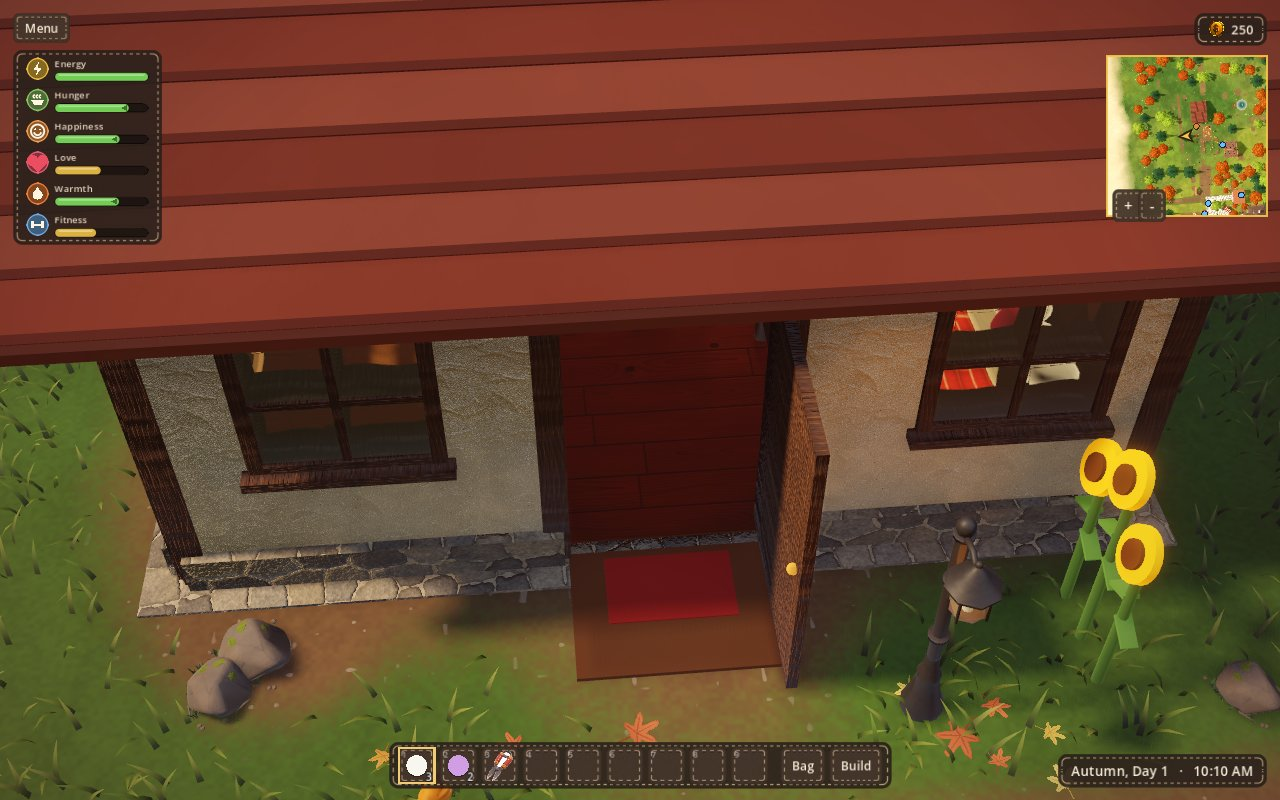
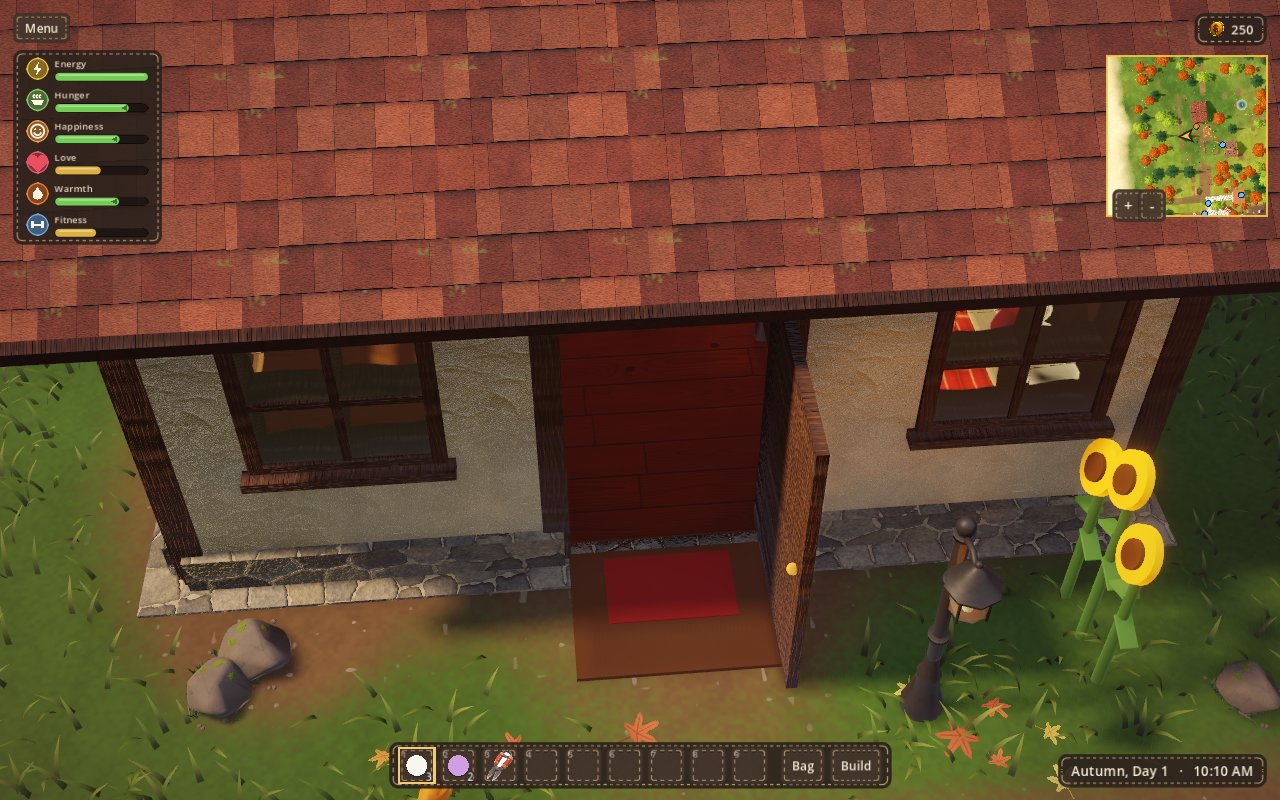
Cedar shingles on the house roof, with a dark oak ridge and fascia
Alex: "what about the roof". The slopes were flat-coloured felt strips. The exterior build
script now draws cedar shingles in the roof's red-brown (courses along the ridge, each shingle
its own width and shade, a shadow under every butt, a little moss), with a mirrored copy for
the other slope so both shade the right way. --only=exterior checks both and saves 62_roof.png.

diff --git a/art/world_assets/house_exterior/build.py b/art/world_assets/house_exterior/build.py
@@ -5,7 +5,7 @@ license), which scripts/house_skin.gd projects onto the house's boxes from three
 
     uv run --no-project --with numpy --with pillow python art/world_assets/house_exterior/build.py
 
-Writes tex/<kind>.png and <kind>_n.png (and timber_h, the oak with its grain across) and a review sheet (review/sheet.png), and copies the maps
+Writes tex/<kind>.png and <kind>_n.png (and timber_h, the oak with its grain across, and shingles_r, the shingles for the far slope) and a review sheet (review/sheet.png), and copies the maps
 to assets/textures/house/. Then import (see AGENTS.md).
 
 Every map tiles both ways: the noise is made in frequency space (so it wraps), and every stroke,
@@ -25,7 +25,7 @@ TEX = os.path.join(HERE, "tex")
 GAME = os.path.join(ROOT, "assets", "textures", "house")
 
 # metres one tile covers (scripts/house_skin.gd scales by these) and its size in pixels
-SIZES = {"plaster": (2.0, 1024), "timber": (1.0, 512), "stone": (2.0, 1024)}
+SIZES = {"plaster": (2.0, 1024), "timber": (1.0, 512), "stone": (2.0, 1024), "shingles": (1.0, 512)}
 
 
 def C(h):
@@ -207,6 +207,53 @@ def stone():
     return np.clip(rgb, 0, 1), h, 3.2
 
 
+def shingles():
+    """Cedar shingles stained the roof's red-brown: courses 0.25 m apart, each shingle its own
+    width and shade, thin under the course above and thick at its butt, which throws a shadow
+    line on the course below; gaps between them, grain down the slope, a little moss. Drawn with
+    the courses across the image (butts at the bottom of each); main() turns it for the roof."""
+    size, n = SIZES["shingles"]
+    rng = np.random.default_rng(91)
+    px = n / size
+    rows = 4
+    R = n // rows
+    rgb = np.zeros((n, n, 3))
+    h = np.zeros((n, n))
+    grain = fbm(rng, n, 50, 3, aspect=(1.0, 0.08)) # streaks down the slope (down the image)
+    blot = fbm(rng, n, 6, 2)
+    pal = [C("#6b3529"), C("#7a3d2c"), C("#5e2e24"), C("#834633"), C("#6a3a2e"), C("#734030")]
+    ys = np.arange(n)
+    for r in range(rows):
+        y0 = r * R
+        x = rng.uniform(0, 0.1) * px
+        while x < n + 0.1 * px:
+            w = rng.uniform(0.11, 0.3) * px
+            if x + w > n and x < n: # the course's last shingle ends where the first began
+                w = n - x
+            col = pal[rng.integers(len(pal))] * rng.uniform(0.88, 1.1)
+            butt = R - rng.uniform(0, 4) # a ragged lower edge
+            x0, x1 = int(x), int(x + w)
+            xs = np.arange(x0, x1) % n
+            for xi in xs:
+                t = (ys[y0:y0 + R] - y0) / butt
+                inside = t <= 1.0
+                rgb[y0:y0 + R, xi][inside] = col
+                h[y0:y0 + R, xi] = np.where(inside, 0.15 + 0.85 * np.clip(t, 0, 1), 0.0)
+            # the gap at its edge
+            rgb[y0:y0 + R, x0 % n] *= 0.45
+            h[y0:y0 + R, x0 % n] -= 0.3
+            x += w
+    # the shadow each butt throws on the course below
+    rowpos = (ys % R) / R
+    shade = 1.0 - 0.45 * np.exp(-rowpos / 0.06)
+    rgb = rgb * shade[:, None, None]
+    rgb = rgb * (1 + 0.12 * grain + 0.05 * blot)[..., None]
+    moss = np.clip(noise(rng, n, 25) * 0.6 + fbm(rng, n, 4, 2) - 1.4, 0, 1) * (rowpos[:, None] < 0.35)
+    rgb = rgb + (C("#6d7a3c") - rgb) * (moss * 0.55)[..., None]
+    h = h + 0.08 * grain
+    return np.clip(rgb, 0, 1), h, 3.0
+
+
 def save(name, rgb, nrm):
     for suffix, img in (("", rgb), ("_n", nrm)):
         path = os.path.join(TEX, name + suffix + ".png")
@@ -239,6 +286,12 @@ def main():
         save(name, *maps[name])
         if name == "timber": # the same oak turned a quarter, for the rails and lintels that lie flat
             save("timber_h", rgb.transpose(1, 0, 2), normal_from_height(h.T, strength))
+        if name == "shingles": # turned so the courses run along the ridge and the butts face down
+            # the slope (+x in each slope's space); shingles_r for the other slope, where down is -x
+            t, th = rgb.transpose(1, 0, 2), h.T
+            save("shingles", t, normal_from_height(th, strength))
+            save("shingles_r", t[:, ::-1], normal_from_height(th[:, ::-1], strength))
+            maps[name] = (t, normal_from_height(th, strength))
         print("wrote", name)
     sheet(maps)
 

diff --git a/AGENTS.md b/AGENTS.md
@@ -39,7 +39,7 @@ grep -E '^FAIL|SCRIPT ERROR|Parse Error' /tmp/ke_autotest.log   # expect nothing
 - To check only the barn (the model's parts, walking in and out, how it opens up) and the flock's bedtime (the sheep walk to their stalls at dusk and back to the pen at first light), add `--only=barn`. It saves `44_barn.png`, `44_barn_inside.png`, `45_flock_going_in.png` and `45_flock_in_stalls.png`. The rest of the autotest runs with bedtime off (`flock_bedtime`), so its sheep stay in the pen.
 - To check only the walk-in shops (the Yarn Barn, Heart Bakery, Willow Homes and Builder's Delight: walking in through each door, how it opens up, the shopkeeper behind the counter, Giorgio's croissant), add `--only=shops`. It saves `46_<shop>.png` and `46_<shop>_inside.png` for `shop`, `bakery`, `office` and `homegoods`.
 - To check only the house furniture (the twelve models, the fire's flames and light, the lamp's light), add `--only=house`. That run also sets out the pieces a new house doesn't start with and saves `46_house.png` and three closer pictures.
-- To check only the outside of Nora's house and the window glass (the plaster, oak and stone maps on the walls, frame, footing and flags, the porch step's boards, every window's glass with the wall cut round it, the walk-in shops' panes the same glass), add `--only=exterior`. It takes a few seconds and saves `62_house_day.png`, `62_house_dusk.png`, `62_house_night.png` and `62_window.png`.
+- To check only the outside of Nora's house and the window glass (the plaster, oak and stone maps on the walls, frame, footing and flags, the roof's shingles, the porch step's boards, every window's glass with the wall cut round it, the walk-in shops' panes the same glass), add `--only=exterior`. It takes a few seconds and saves `62_house_day.png`, `62_house_dusk.png`, `62_house_night.png`, `62_window.png` and `62_roof.png`.
 - To check only scenery fading out of the camera's way (`scripts/see_through.gd`: she stands just behind a tall tree as the camera sees it, it fades to see-through, and comes back solid in its place when she's clear; a tree whose crown holds the camera, deep in the woods, fades too), add `--only=seethrough`. It takes a few seconds and saves `58_see_through.png` and `58_see_through_inside.png`.
 - To check only the minimap (where it sits under the coins, that it shows the world, a click on it walks her there, zoom) and walking with the button held down (she heads for the mouse until it comes up, then stops; a quick click still goes all the way), add `--only=minimap`. It takes about twenty seconds and saves `50_minimap.png`, `50_minimap_close.png` and `50_hold_walk.png`. The map is `scripts/minimap.gd`: a small orthographic camera in a SubViewport looks down on the game's world a few times a second, with its own plain environment (no mist or GI), and turns with the game camera. Clicks on it call `main.minimap_walk()`; holding the button is `_update_hold()` in `main.gd`.
 - To check only cinematic mode and the photo album (P frees the camera and stops the clock, WASD flies it, it goes down to the grass and stops at 300 m, F saves a photo, the album lists, shows and deletes it, Esc brings the camera back to Nora), add `--only=photo`. It takes about fifteen seconds and saves `49_cinematic_high.png`, `49_cinematic_low.png`, `49_album.png` and `49_album_photo.png`. The test's photos go to `photos/` inside the folder you give `--autotest=` (`Cinematic.dir`), never the player's `user://photos/`.
@@ -200,7 +200,7 @@ Alex arranges the map himself in the game: Settings > God mode > "Edit the world
 | `assets/nora_tripo_eyes.glb`, `assets/rowan_tripo_eyes.glb` (what the game loads: the Tripo models with real eyes: eyeballs on `LeftEye` and `RightEye` bones, lids and lashes with the shape keys `blink_L`, `blink_R`, `lid_half`, `lid_angry`, `lid_sad`, `squint`; `scripts/face.gd` drives them) | `tools/add_eyes.py` (Blender), run on the rigged model after `rig_sculpt.py` and `retarget_anims.py` | `Blender -b tools/character_build/<id>/<id>.blend -P tools/add_eyes.py -- "$PWD" <id>`, then import. Review sheet: `tools/add_eyes_review.py` (commands in `tools/character_build/<id>_eyes/<id>_eyes_log.md`) |
 | `assets/portraits/<id>_<mood>.png` (the faces beside story lines: eight moods for every character in `data/characters.json`, all twelve of them, Rebecca included (the town's cast check fails if one is missing), rendered from the models the game plays with, with the lid shapes of `scripts/face.gd`) | `tools/render_portraits.py` (Blender) | `Blender -b --factory-startup -P tools/render_portraits.py -- "$PWD"`, then import. Run it again whenever a character's model or face changes |
 | `assets/textures/planks/wall_planks.png`, `floor_planks.png` and their `_n` normal maps (five boards each, side by side; `scripts/planks.gd` lays the houses' boarded walls and every building's plank floor from them, each floor in its own shade: `Planks.SHADES`) | `art/world_assets/planks/build.py` (Blender; the grain is `grain.py` beside it) | `Blender --background --factory-startup --python-exit-code 1 --python art/world_assets/planks/build.py`: it copies the atlases to `assets/textures/planks/`; then import |
-| `assets/textures/house/plaster.png`, `timber.png`, `timber_h.png`, `stone.png` and their `_n` normal maps (the outside of Nora's house and Rosewood Cottage: trowelled lime plaster, the oak frame with its grain up the posts or along the rails, the fieldstone footing and the flags round the house; `scripts/house_skin.gd` projects them onto the house's boxes from three sides, `HouseSkin.on()` and `HouseSkin.oak()`. Drawn from noise and strokes, no photographs) | `art/world_assets/house_exterior/build.py` (numpy; review sheet `review/sheet.png`, each map tiled 2 x 2 beside it lit) | `uv run --no-project --with numpy --with pillow python art/world_assets/house_exterior/build.py [plaster timber stone]`: it copies the maps to `assets/textures/house/`; then import |
+| `assets/textures/house/plaster.png`, `timber.png`, `timber_h.png`, `stone.png`, `shingles.png`, `shingles_r.png` and their `_n` normal maps (the outside of Nora's house and Rosewood Cottage: trowelled lime plaster, the oak frame with its grain up the posts or along the rails, the fieldstone footing and the flags round the house, cedar shingles on the roof, `shingles_r` mirrored for the slope that runs down the other way; `scripts/house_skin.gd` projects them onto the house's boxes from three sides, `HouseSkin.on()` and `HouseSkin.oak()`. Drawn from noise and strokes, no photographs) | `art/world_assets/house_exterior/build.py` (numpy; review sheet `review/sheet.png`, each map tiled 2 x 2 beside it lit) | `uv run --no-project --with numpy --with pillow python art/world_assets/house_exterior/build.py [plaster timber stone shingles]`: it copies the maps to `assets/textures/house/`; then import |
 | `assets/audio/*` (every sound and the music, including `coins.wav`, the cha-ching) | `tools/make_audio.py` | `uv run --no-project --with numpy --with scipy python tools/make_audio.py "$PWD"` (one effect alone, leaving the rest as they are: add `--only coins`) |
 | `assets/icons/coin.png` (the gold coin: on the HUD's coin chip and in the "+N" pop-up, `hud.coin_pop()`, whenever the count goes up; the model is for the picture only, not in `assets/props/`) | `art/world_assets/coin/build.py` (Blender, Cycles; kiln log `coin_log.md`) | `Blender --background --factory-startup --python-exit-code 1 --python art/world_assets/coin/build.py`: it renders `out/coin_render.png` and writes the 256 px icon; then import |
 | `assets/props/*.glb` (Woolcore palette props, e.g. `milk_churn`) | `tools/import_asset.py` | see `docs/STYLE_GUIDE.md` |

diff --git a/art/world_assets/house_exterior/house_exterior_log.md b/art/world_assets/house_exterior/house_exterior_log.md
@@ -25,3 +25,12 @@ plaster on the walls, the door lintel and the gables; oak on the posts, rails, w
 and the door leaf (lighter); stone on the slab round the house and a new 30 cm fieldstone footing
 along the outside of every outer wall. The doormat became a porch step of weathered boards
 (`Planks` floor, shade `porch`) on a dark oak frame, with a red knitted mat on it (`world.gd`).
+
+## The roof (2026-11-16)
+
+Alex: "what about the roof". The slopes had been flat-coloured strips of felt. `shingles` (1 m a tile)
+draws cedar shingles stained the old roof's red-brown: courses 0.25 m apart, each shingle its own
+width and shade, thin under the course above and thick at its butt with a shadow on the course below,
+gaps between, grain down the slope, a little moss. It's turned so the courses run along the ridge with
+the butts toward +x of each slope's own space; `shingles_r` is its mirror for the other slope, built
+from a mirrored height map so its normals are right. The ridge cap and fascia boards are dark oak.
